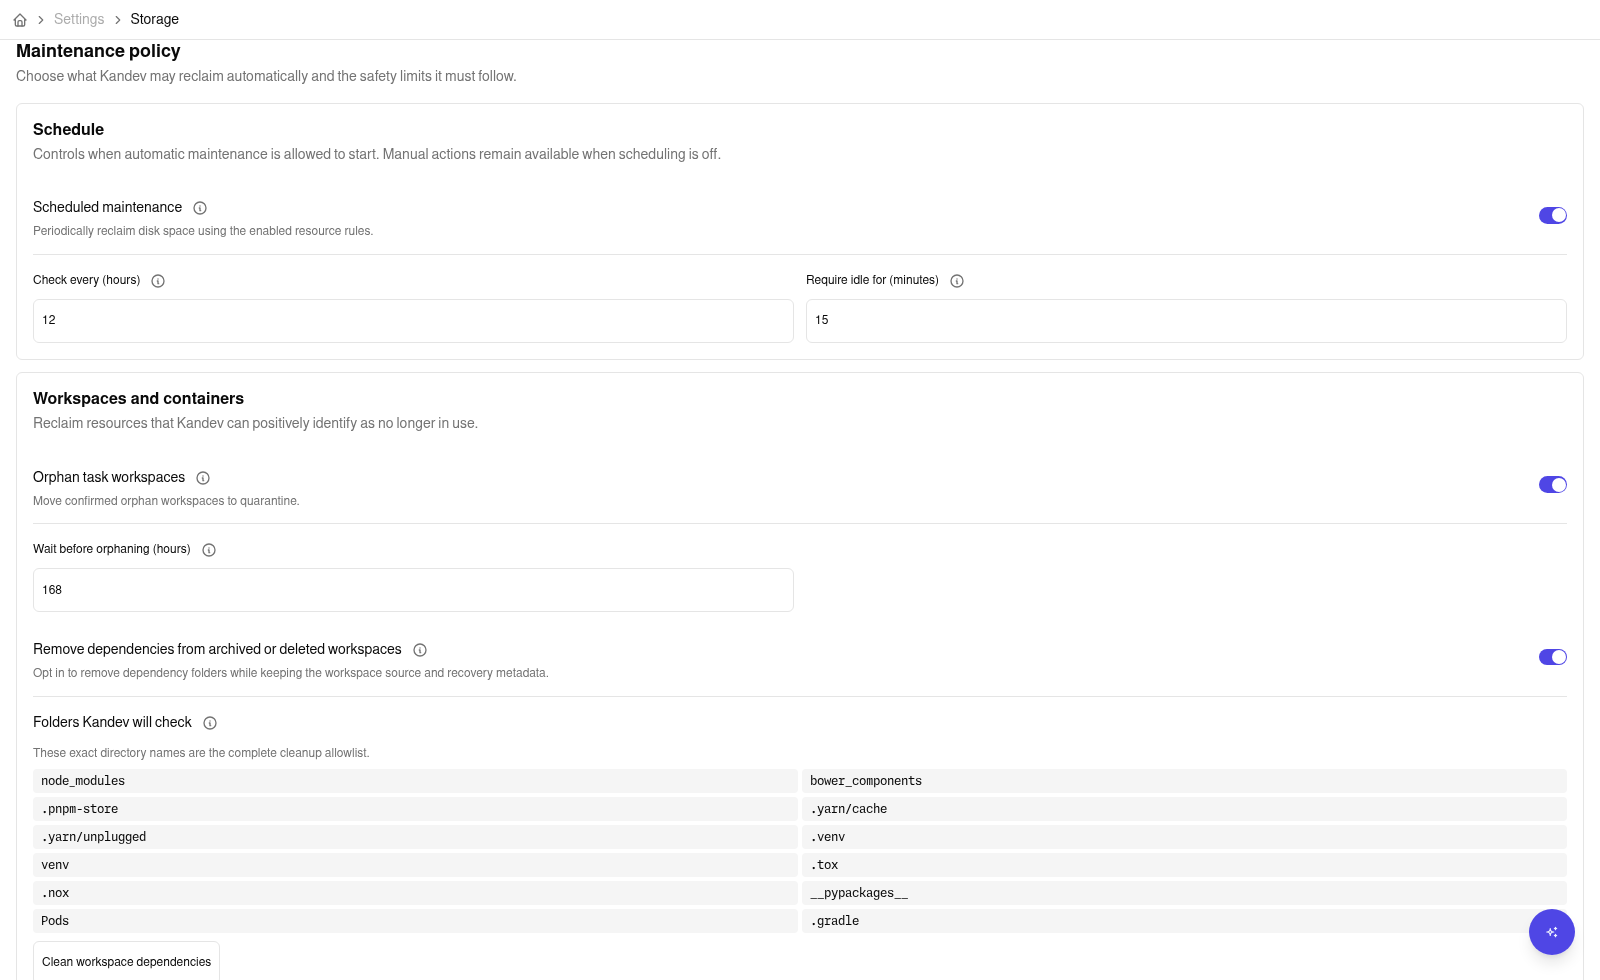
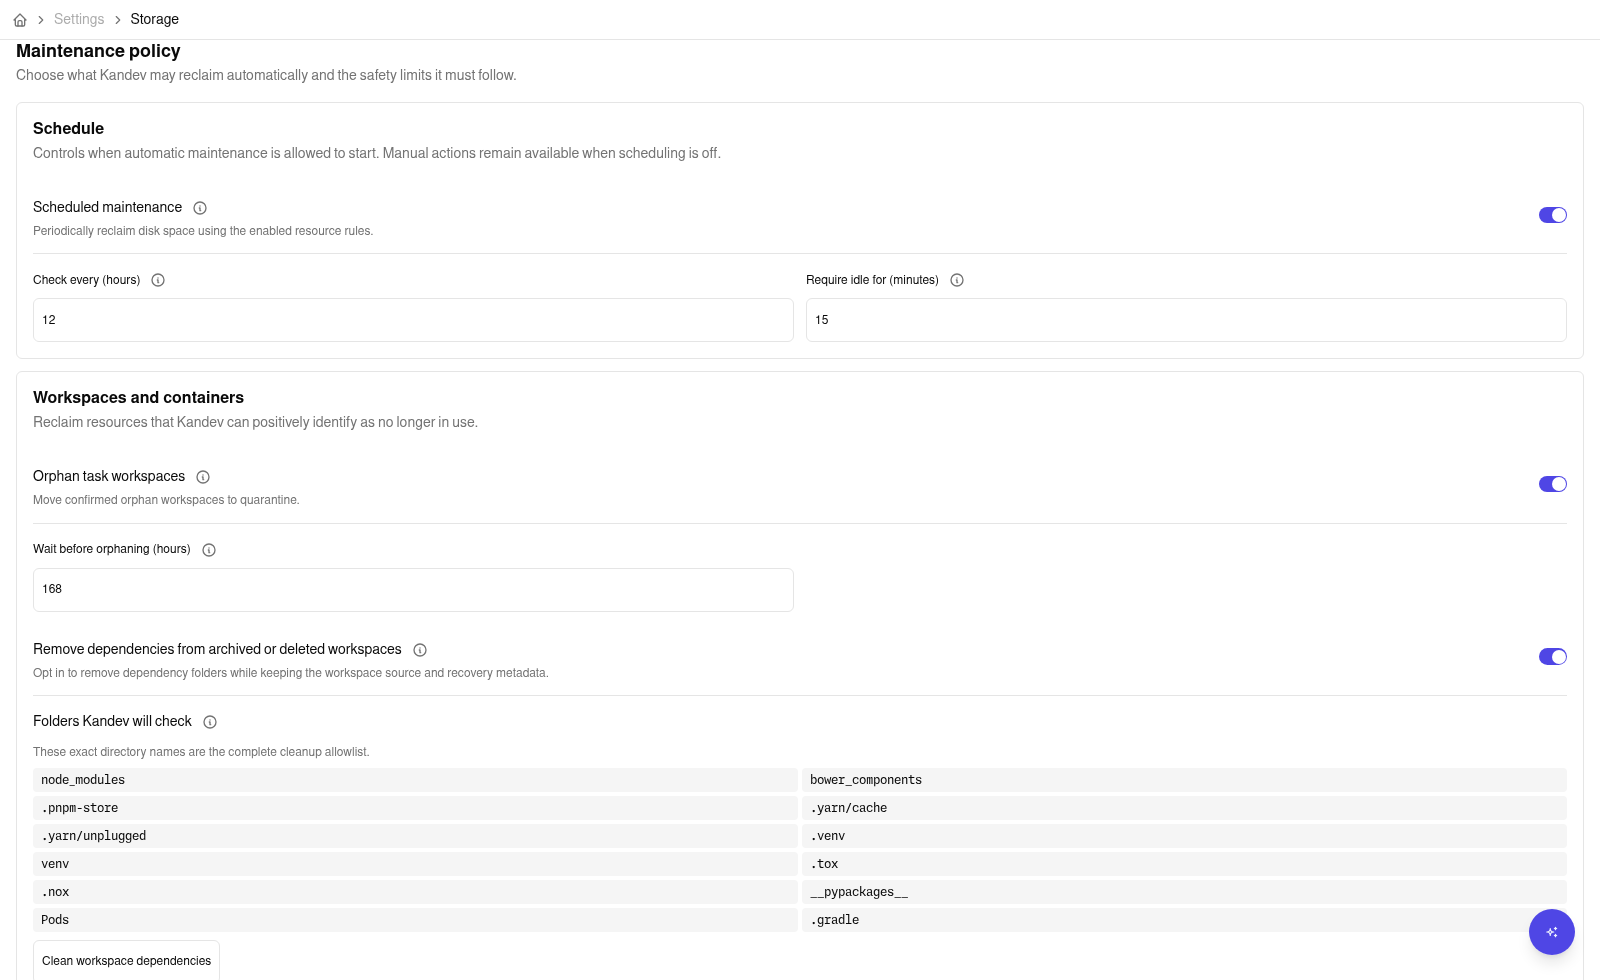
fix(docs): refresh Storage screenshot framing

diff --git a/docs/audits/settings-typography/003-normalize-card-and-section-headings.md b/docs/audits/settings-typography/003-normalize-card-and-section-headings.md
@@ -17,7 +17,7 @@ Equivalent settings cards do not share a predictable title role. Some use the ba
 - A source inventory found 52 explicit `text-base` settings `CardTitle` usages mixed with plain default usages, including `apps/web/components/settings/profile-edit/profile-details-card.tsx:24-29` and `apps/web/components/settings/ssh-sessions-card.tsx:63-65`.
 - `apps/web/components/settings/profile-edit/profile-details-card.tsx:27` uses the default `CardTitle` size for the same kind of settings card.
 - `apps/web/app/settings/agents/[agentId]/profile-mcp-config-card.tsx:429` also uses the default title size, while `apps/web/components/settings/system/about-card.tsx:39` uses `text-base`.
-- `apps/web/components/settings/settings-section.tsx:45` and `apps/web/components/settings/system/data-storage-settings.tsx:13` use `text-lg font-semibold` for section headings.
+- `apps/web/components/settings/settings-section.tsx:45` and `apps/web/components/settings/system/data-logs-settings.tsx:13` use `text-lg font-semibold` for section headings.
 - `apps/web/app/settings/executors/page.tsx:106-115` and `:143-152` render executor card titles as un-sized paragraphs, so they inherit the card body's `text-xs/relaxed`; their descriptions are also `text-xs`.
 - `apps/web/components/settings/plugins/marketplace-entry-row.tsx:27-43` leaves the marketplace entry name at the surrounding Plugins Browse `TabsContent` inherited `text-xs/relaxed` (`apps/packages/ui/src/tabs.tsx:70-75`) while explicitly rendering its description at `text-sm`, inverting the expected title-to-description hierarchy.
 - `apps/web/components/settings/executor-profiles-card.tsx:65-79`, `apps/web/app/settings/agents/[agentId]/agent-setup-parts.tsx:225-237`, and profile-edit cards such as `env-vars-card.tsx:376-389` place title/description groups beside small action buttons without a shared `min-w-0` responsive header.

diff --git a/docs/plans/system-data-storage-page-split/task-02-update-storage-operations-docs.md b/docs/plans/system-data-storage-page-split/task-02-update-storage-operations-docs.md
@@ -81,10 +81,14 @@ Run these commands from the repository root.
 
 ## Results
 
-Implemented in commit `407e3df65`. Storage instructions and captions now point
-to `Settings > System > Storage`. The four affected screenshots were recaptured
-with an isolated Playwright fixture using fictional `/var/lib/kandev/...`
-paths, then visually inspected and copied into `docs/screenshots/`.
+Implemented across commits `407e3df65` (the route split) and `97de44c48`
+(the public documentation and screenshot refresh). Storage instructions and
+captions now point to `Settings > System > Storage`. The four affected
+screenshots were recaptured with an isolated Playwright fixture using fictional
+`/var/lib/kandev/...` paths, then visually inspected and copied into
+`docs/screenshots/`. The maintenance-policy and Docker-cleanup captures were
+subsequently reframed so each visibly retains the Storage breadcrumb or page
+heading alongside the relevant controls.
 
 Verification passed:
 
